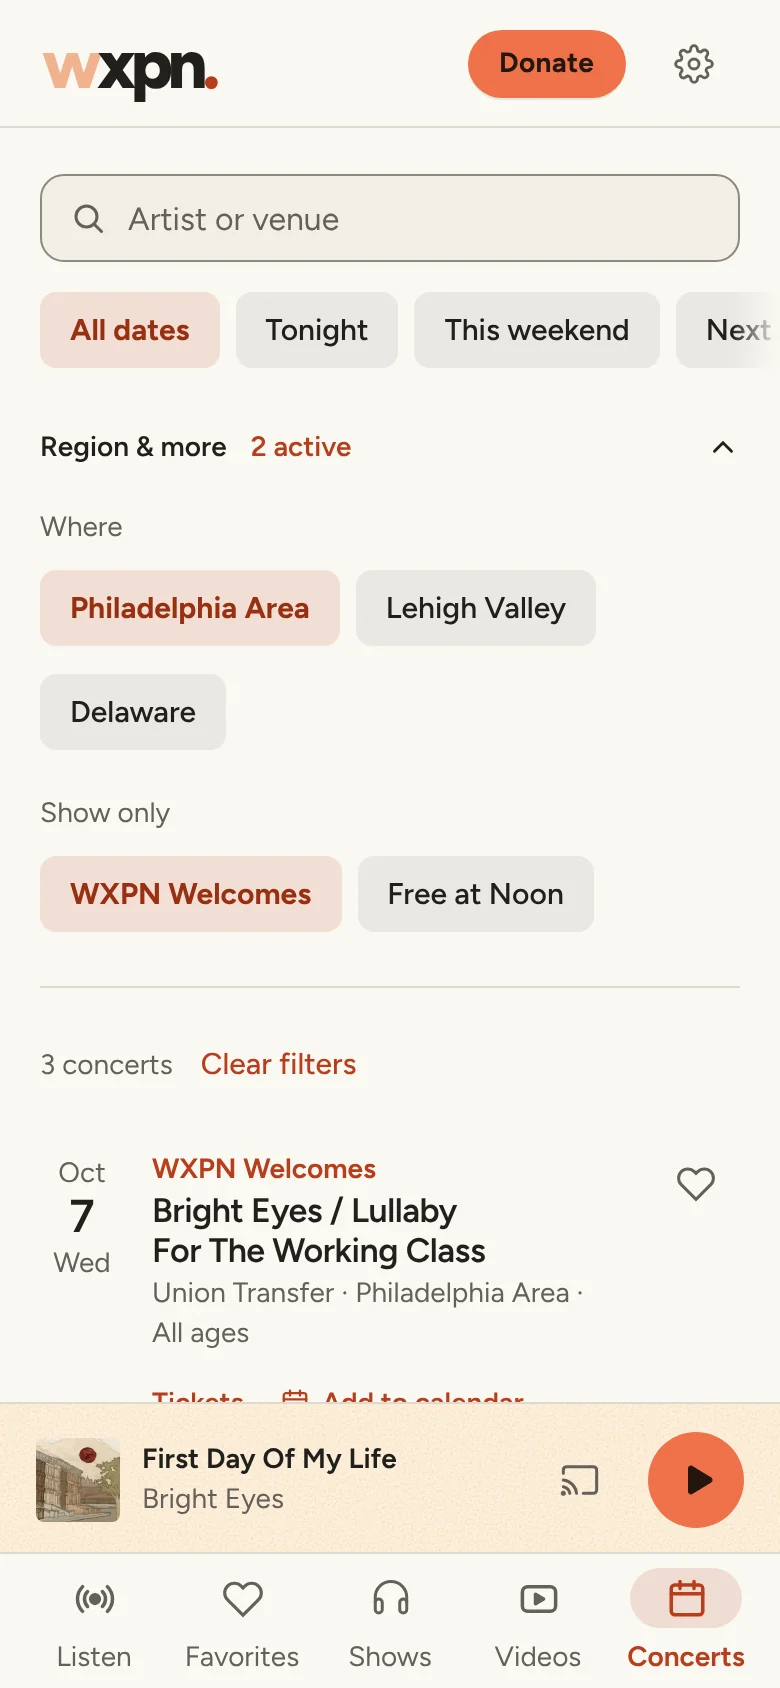
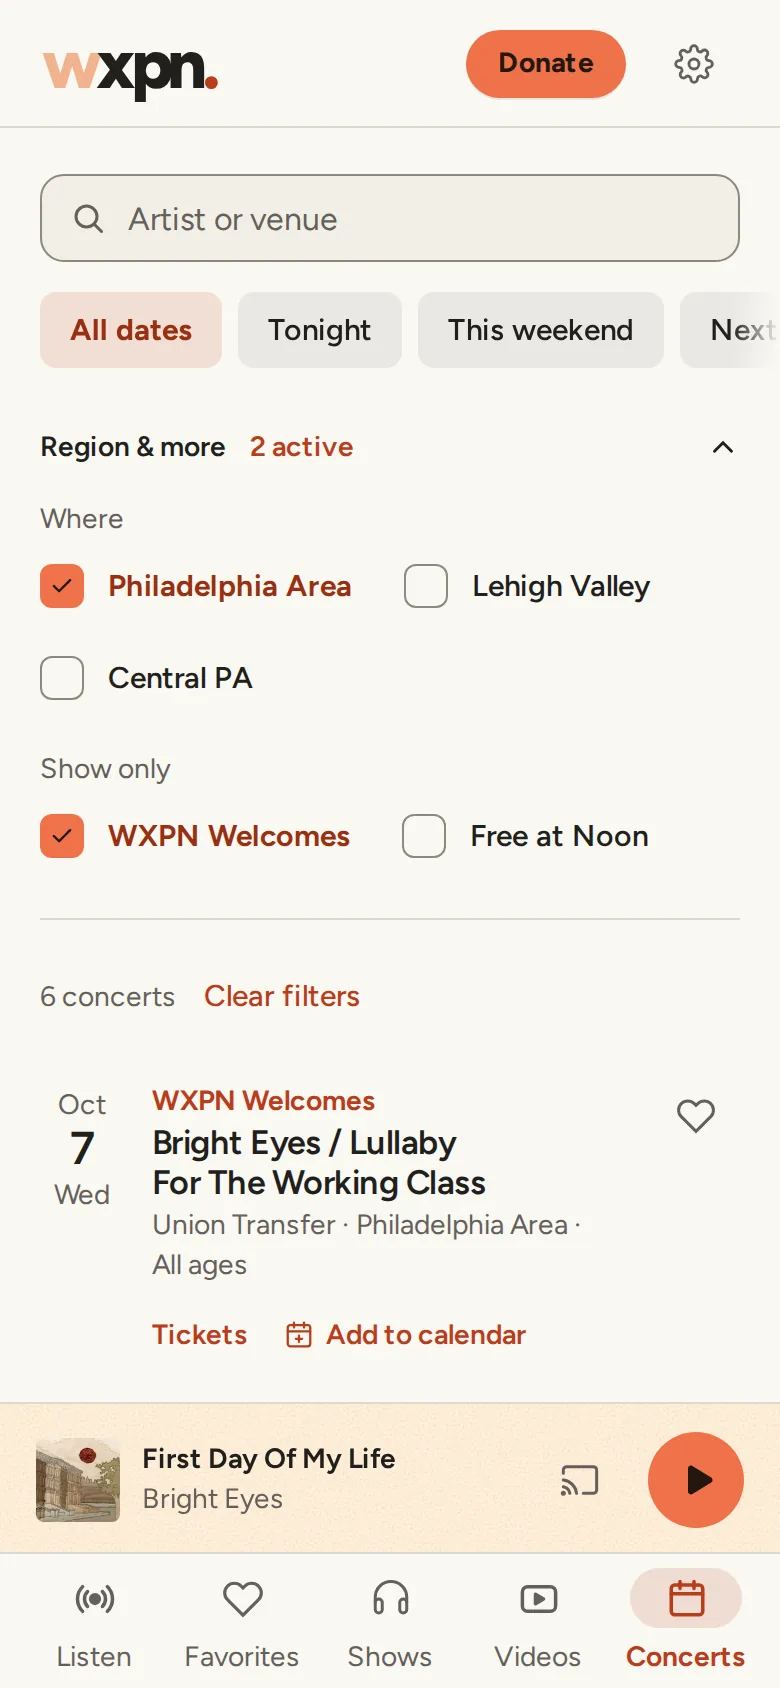
Screens page: retake Favorites, the concert filters, Stay connected and the end of Concerts
Favorites and the concert filters show the new bands and checklist;
Stay connected and the end of Concerts were older than the App help row
and the current mini player. All taken with the Screens workflow.

Claude-Session: https://claude.ai/code/session_01CGtg5EwPMMWJmEAcWXW4sv

diff --git a/design/screens/index.html b/design/screens/index.html
@@ -635,7 +635,7 @@
                 width="390"
                 height="844"
                 loading="lazy"
-                alt="Saved songs, each on a soft card washed in its artwork’s color with its heart in that color, under tabs for Songs, Shows, Videos and Concerts, and a prompt to connect a music service."
+                alt="Saved songs under tabs for Songs, Shows, Videos and Concerts and a prompt to connect a music service; each colorful song sits on a band of its artwork’s color across the screen that fades out through the grain at its top and bottom, its heart in that color."
               />
             </div>
             <div class="caption"><h3>Favorites</h3></div>
@@ -713,7 +713,7 @@
                 width="390"
                 height="844"
                 loading="lazy"
-                alt="Concerts, Region and more open with Philadelphia Area and WXPN Welcomes both chosen: 3 concerts, the WXPN Welcomes shows in the Philadelphia Area."
+                alt="Concerts, Region and more open as a checklist: Philadelphia Area and WXPN Welcomes checked, Lehigh Valley, Central PA and Free at Noon not; 6 concerts, the WXPN Welcomes shows in the Philadelphia Area."
               />
             </div>
             <div class="caption">
@@ -764,7 +764,7 @@
                 width="390"
                 height="844"
                 loading="lazy"
-                alt="The end of the concert list: Playing a show? Submit a concert or event to WXPN’s calendar, then Get concert news by email."
+                alt="The end of the concert list: Playing a show? Submit a concert or event to WXPN’s calendar, then The full calendar, then Get concert news by email."
               />
             </div>
             <div class="caption">
@@ -803,7 +803,7 @@
                 width="390"
                 height="844"
                 loading="lazy"
-                alt="Settings, Stay connected: WXPN, then World Cafe, each with Instagram, Facebook and YouTube icons, then Donate, Contact the station, Technical support and Privacy policy."
+                alt="Settings, Stay connected: WXPN, then World Cafe, each with Instagram, Facebook and YouTube icons, then Donate to WXPN, Contact the station, App help, Technical support and Privacy policy."
               />
             </div>
             <div class="caption">

diff --git a/README.md b/README.md
@@ -28,7 +28,7 @@ End-to-end tests (`tests/e2e`, Playwright) play the station, change station, sav
 CI runs `lint`, `format:check`, `test`, the end-to-end tests and `build` on every push and pull request, plus `npm audit` of everything the app ships (a high or critical advisory fails a branch's checks, and is flagged on `main` without blocking the preview). Pushes to `main` also deploy the preview to GitHub Pages:
 
 - **Live preview:** https://alex-colemankime.github.io/xpn-app-update/ (on a computer, with Phone, Tablet and Laptop buttons)
-- **Every screen:** https://alex-colemankime.github.io/xpn-app-update/screens/ (light and dark, from `design/screens/`)
+- **Every screen:** https://alex-colemankime.github.io/xpn-app-update/screens/ (light and dark, from `design/screens/`). To retake shots, run the **Screens** workflow (Actions › Screens, naming the shots or none for all): `tools/capture-screens.mjs` drives the built app in Chromium at the page's moment and song, and puts PNGs on the `screens-out` branch to convert to WebP for `design/screens/img`.
 
 ## Configuration
 
